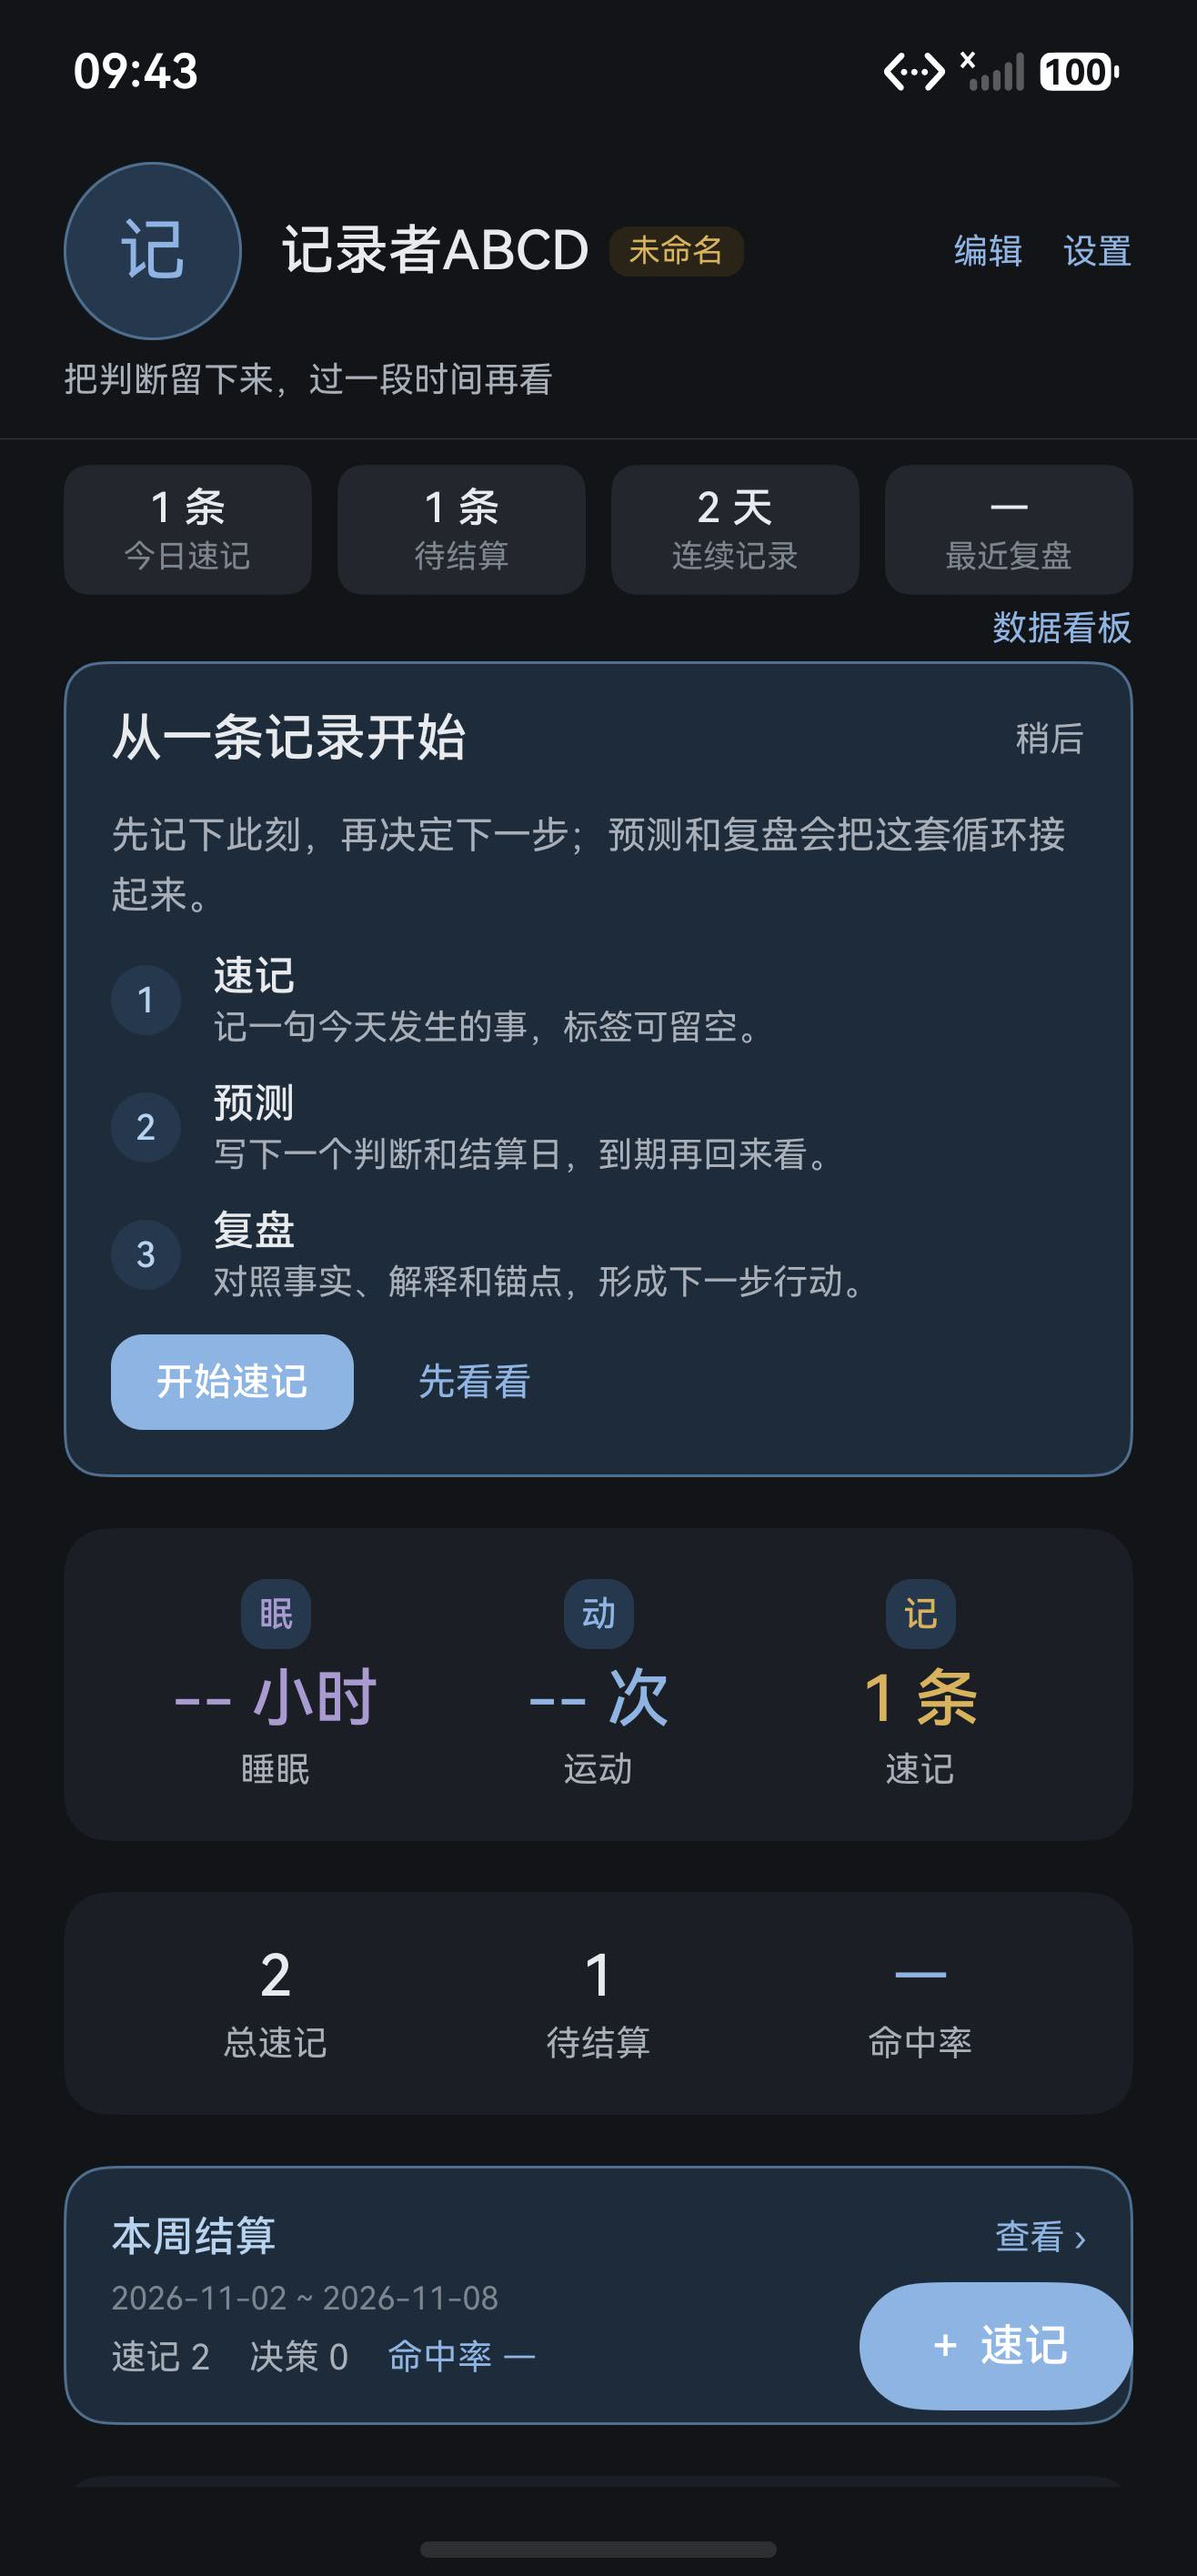
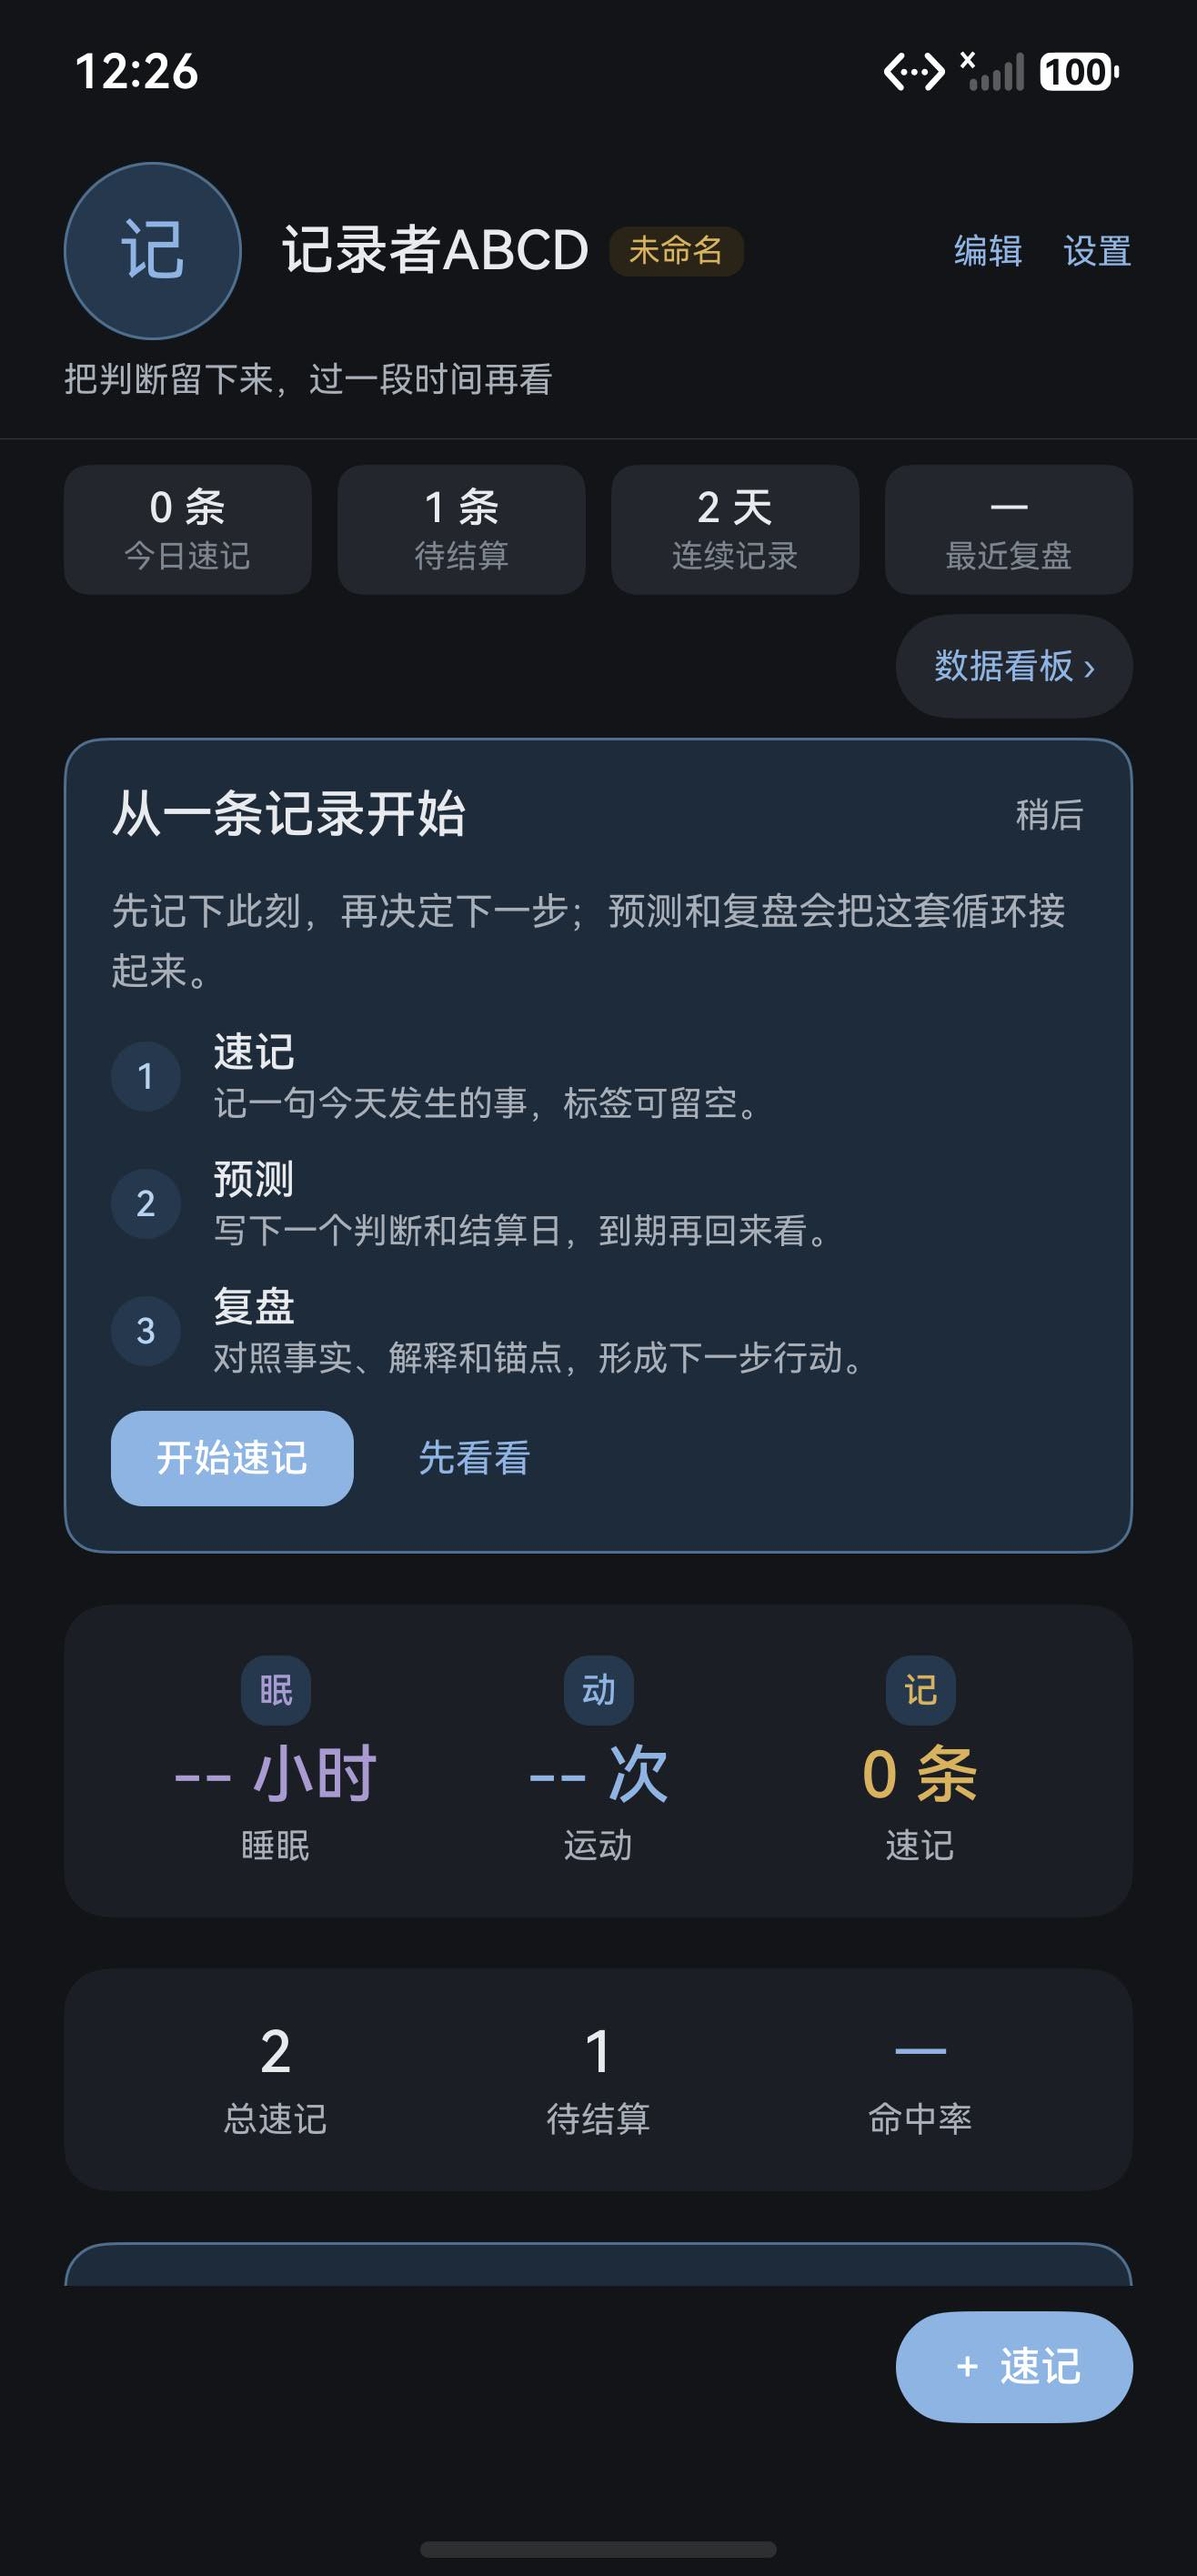
fix(home): separate the dashboard button and capture action
数据看板入口从 11fp 裸文本改成胶囊按钮，点击区域与视觉层级更清楚。
速记按钮从覆盖内容的浮动位置移到滚动区外的底栏，避免压住周结算卡与模块卡片。
同步更新 README 首页截图与替代文本。

diff --git a/README.md b/README.md
@@ -25,7 +25,7 @@ Three design choices separate it from a journal:
 
 The interface is Chinese only. The display name is set in `entry/src/main/ets/theme/AppIdentity.ts` and the launcher label in `AppScope/resources/base/element/string.json`.
 
-The launch screen opens with an identity band — avatar, nickname, signature, and a hand-written title — followed by four counters: notes today, pending settlements, consecutive record days, and the latest review date. Readings, the weekly card, and the module grid sit below it. A `数据看板` link under the counters opens the analytics dashboard.
+The launch screen opens with an identity band — avatar, nickname, signature, and a hand-written title — followed by four counters: notes today, pending settlements, consecutive record days, and the latest review date. Readings, the weekly card, and the module grid sit below it. A `数据看板` button under the counters opens the analytics dashboard.
 
 ## Project status
 
@@ -87,7 +87,7 @@ The code is organised as six layers with a single dependency direction, plus a s
 
 The home page opens with the identity band and four counters; today's readings, a weekly settlement or onboarding card, and the grid of six modules follow below. `编辑` and `设置` sit on the right of the identity band.
 
-<img src="./docs/images/debug/home.jpeg" width="300" alt="Current home page with the identity band, four counters, a dashboard link, today's readings, an onboarding card and the six-module grid">
+<img src="./docs/images/debug/home.jpeg" width="300" alt="Current home page with the identity band, four counters, a dashboard button, today's readings, an onboarding card and the six-module grid">
 
 ### Set your identity
 
@@ -144,7 +144,7 @@ Screenshots come from a Mate 70 Pro emulator. Every record in them is synthetic.
 
 | Home | Analytics, 6 months |
 |---|---|
-| <img src="./docs/images/debug/home.jpeg" width="300" alt="Current home page with the identity band, four counters, a dashboard link, today's readings and the module grid"> | <img src="./docs/images/debug/analytics-6m.jpeg" width="300" alt="Analytics dashboard in dark mode showing the remote data timestamp, the six-month hit-rate line, the calibration curve and the outcome donut"> |
+| <img src="./docs/images/debug/home.jpeg" width="300" alt="Current home page with the identity band, four counters, a dashboard button, today's readings and the module grid"> | <img src="./docs/images/debug/analytics-6m.jpeg" width="300" alt="Analytics dashboard in dark mode showing the remote data timestamp, the six-month hit-rate line, the calibration curve and the outcome donut"> |
 | **Analytics, 12 months** | **Analytics, heatmaps** |
 | <img src="./docs/images/debug/analytics-12m.jpeg" width="300" alt="Analytics dashboard after switching to twelve months, with more monthly points on the hit-rate line"> | <img src="./docs/images/debug/analytics-bottom.jpeg" width="300" alt="Lower part of the analytics dashboard with sleep buckets, interaction bars, a coverage heatmap and an activity heatmap, both labelled by weekday"> |
 
